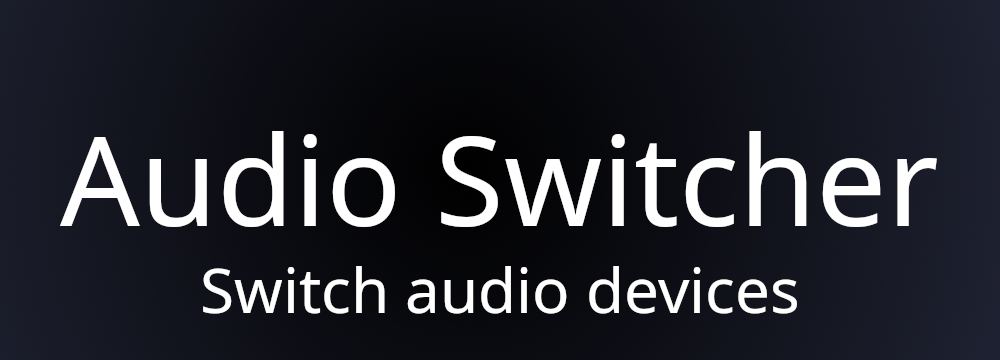
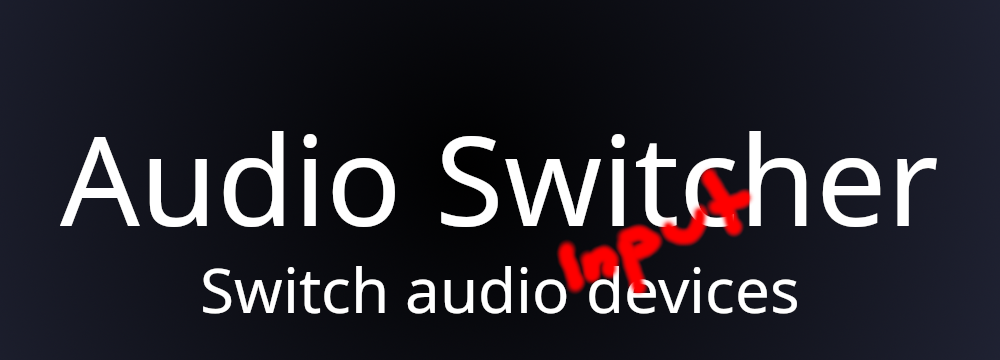
Alternating the original code to input sources

Changed region(s): [[0.558, 0.4583, 0.775, 0.825]]

diff --git a/main.py b/main.py
@@ -5,46 +5,46 @@ from src.backend.DeckManagement.InputIdentifier import Input
 from src.backend.PluginManager.ActionInputSupport import ActionInputSupport
 
 # Import actions
-from .actions.SetOutput.SetOutput import SetOutput
-from .actions.ToggleOutput.ToggleOutput import ToggleOutput
+from .actions.SetInput.SetInput import SetInput
+from .actions.ToggleInput.ToggleInput import ToggleInput
 
-class AudioSwitcher(PluginBase):
+class AudioInputSwitcher(PluginBase): # Changed plugin class name
     def __init__(self):
         super().__init__()
 
         self.lm = self.locale_manager
 
         ## Register actions
-        self.set_output_holder = ActionHolder(
+        self.set_input_holder = ActionHolder( # Changed name
             plugin_base = self,
-            action_base = SetOutput,
-            action_id_suffix = "SetOutput", # Change this to your own plugin id
-            action_name = self.lm.get("actions.set-output.name"),
+            action_base = SetInput, # Changed name
+            action_id_suffix = "SetInput", # Changed suffix
+            action_name = self.lm.get("ais.actions.set-input.name"), # Changed label
             action_support={
                 Input.Key: ActionInputSupport.SUPPORTED,
                 Input.Dial: ActionInputSupport.SUPPORTED,
                 Input.Touchscreen: ActionInputSupport.UNTESTED
             }
         )
-        self.add_action_holder(self.set_output_holder)
+        self.add_action_holder(self.set_input_holder)
 
-        self.toggle_output_holder = ActionHolder(
+        self.toggle_input_holder = ActionHolder( # Changed name
             plugin_base = self,
-            action_base = ToggleOutput,
-            action_id_suffix = "ToggleOutput", # Change this to your own plugin id
-            action_name = self.lm.get("actions.toggle-output.name"),
+            action_base = ToggleInput, # Changed name
+            action_id_suffix = "ToggleInput", # Changed suffix
+            action_name = self.lm.get("ais.actions.toggle-input.name"), # Changed label
             action_support={
                 Input.Key: ActionInputSupport.SUPPORTED,
                 Input.Dial: ActionInputSupport.SUPPORTED,
                 Input.Touchscreen: ActionInputSupport.UNTESTED
             }
         )
-        self.add_action_holder(self.toggle_output_holder)
+        self.add_action_holder(self.toggle_input_holder)
 
         # Register plugin
         self.register(
             plugin_name = self.lm.get("plugin.name"),
-            github_repo = "https://github.com/StreamController/AudioSwitcher",
+            github_repo = "https://github.com/orehren/AudioInputSwitcher", # Update with your repo
             plugin_version = "1.0.0",
             app_version = "1.4.5-beta"
         )
